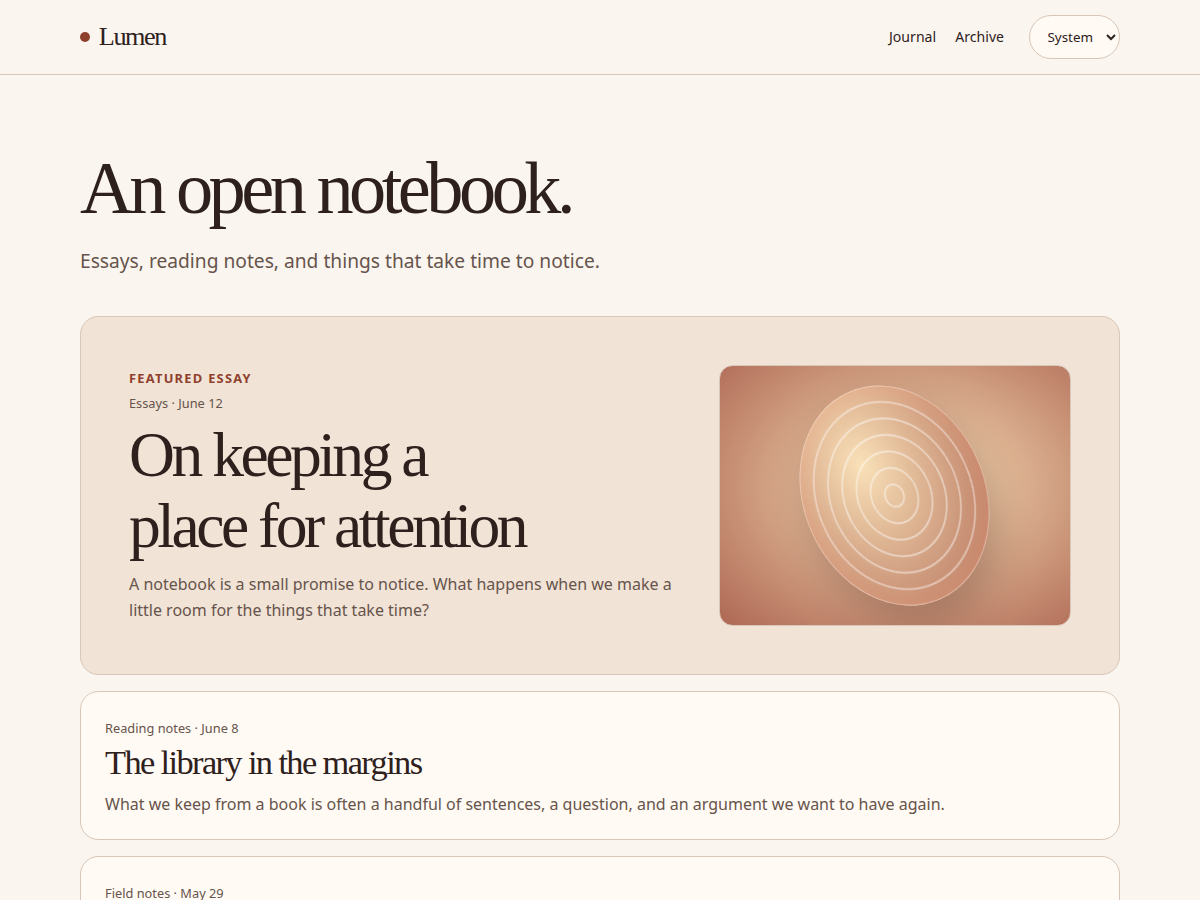
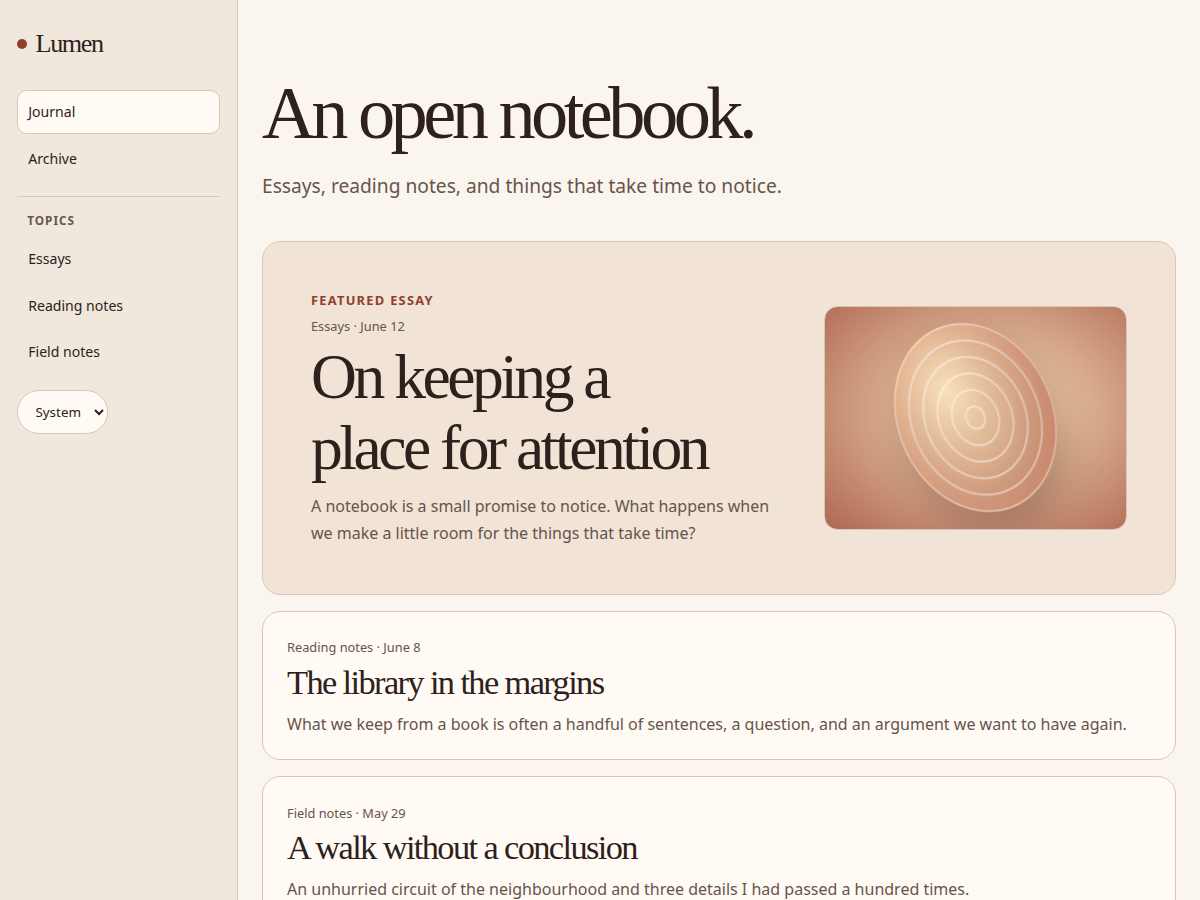
Show Lumen sidebar layout and 1.1.0 downloads

diff --git a/index.html b/index.html
@@ -1,1 +1,1 @@
-<!doctype html><html lang="en"><head><meta charset="utf-8"/><meta name="viewport" content="width=device-width,initial-scale=1"/><title>Gonk Themes — Free themes for crypto communities</title><meta name="description" content="Original free Blogger and WordPress themes for crypto communities. Browse live previews, download installable themes and explore the open source."/><link rel="canonical" href="https://gonkfun.github.io/"/><link rel="icon" type="image/svg+xml" href="assets/favicon.svg"/><style>*{box-sizing:border-box}body{margin:0;background:#101216;color:#f2f4f8;font:16px/1.7 system-ui,-apple-system,sans-serif}a{color:inherit;text-underline-offset:5px}a:focus-visible{outline:3px solid #8fbaff;outline-offset:5px}.wrap{max-width:1180px;width:calc(100% - 48px);margin:auto}header{border-bottom:1px solid #39414f}header .wrap{display:flex;justify-content:space-between;align-items:center;min-height:90px;gap:24px}header a{text-decoration:none;min-height:44px;display:inline-flex;align-items:center}.brand{font-size:23px;font-weight:700;letter-spacing:-.8px}.brand span{color:#8fbaff}nav{display:flex;gap:25px;font-size:14px}.hero{padding:80px 0 55px;max-width:850px}.eyebrow{font:11px/1.5 ui-monospace,monospace;letter-spacing:1.5px;color:#aab3c2;text-transform:uppercase}h1{font-size:clamp(42px,6vw,76px);font-weight:600;line-height:1.08;letter-spacing:-3px;margin:20px 0 26px}h1 span{color:#8fbaff}.hero p{font-size:18px;color:#aab3c2;max-width:620px}.grid{display:grid;grid-template-columns:minmax(0,1fr);gap:32px}.card{border:1px solid #39414f;background:#191c22;border-radius:18px;overflow:hidden;display:grid;grid-template-columns:1.1fr 1fr;min-width:0}.cover{display:block;background:#222731;overflow:hidden}.cover img{display:block;width:100%;height:100%;object-fit:cover;object-position:top}.card-body{padding:34px}h2{font-size:35px;font-weight:600;letter-spacing:-1px;margin:14px 0 10px}.card p{font-size:15px;color:#aab3c2}.tags{display:flex;flex-wrap:wrap;gap:10px;margin:22px 0}.tags span{padding:6px 12px;border:1px solid #39414f;border-radius:999px;font-size:12px}.actions{display:flex;gap:10px;flex-wrap:wrap}.actions a{min-height:44px;display:inline-flex;align-items:center;padding:10px 16px;text-decoration:none;font-size:13px;border:1px solid #46546b;border-radius:999px}.actions .primary{background:#8fbaff;color:#101b30;border-color:#8fbaff;font-weight:650}.source{display:inline-flex;align-items:center;min-height:44px;font-size:13px;margin-top:16px;color:#bfd4f9}.note{padding:26px 0;color:#aab3c2;font-size:14px;max-width:900px}footer{border-top:1px solid #39414f;margin-top:50px;padding:28px 0 40px;font-size:13px;color:#aab3c2}footer .wrap{display:flex;justify-content:space-between;gap:25px;flex-wrap:wrap}footer a{color:#8fbaff}.skip{position:absolute;top:-100px;left:20px}.skip:focus{top:15px;background:#8fbaff;color:#101216;padding:12px;z-index:5}@media(max-width:750px){.wrap{width:calc(100% - 32px)}header .wrap{min-height:80px}.brand{font-size:20px}nav{gap:16px;font-size:12px}.hero{padding:46px 0 32px}h1{letter-spacing:-1.8px}.card{grid-template-columns:1fr}.cover{aspect-ratio:16/10}.card-body{padding:25px}.hero p{font-size:16px}}</style></head><body><a class="skip" href="#themes">Skip to themes</a><header><div class="wrap"><a class="brand" href="./">gonk<span> / themes</span></a><nav aria-label="Main"><a href="https://github.com/gonkfun/themes">GitHub ↗</a><a href="https://gonk.fun/">gonk.fun ↗</a></nav></div></header><main class="wrap"><section class="hero"><div class="eyebrow">Original design. Open source.</div><h1>A home for your<br/><span>corner of crypto.</span></h1><p>Free themes for the people writing, building and bringing communities together. Start with one you like. Make it your own.</p></section><section class="grid" id="themes" aria-label="Available themes"><article class="card"><a class="cover" href="/themes/epoch/" aria-label="Preview Epoch"><img src="assets/epoch.png" width="1200" height="900" alt="Epoch theme homepage"/></a><div class="card-body"><div class="eyebrow">THEME 01 / Solana editorial</div><h2>Epoch</h2><p>A charcoal-and-blue journal for Solana communities, with native publishing, responsive reading layouts and original artwork.</p><div class="tags"><span>Blogger</span><span>WordPress</span></div><div class="actions"><a class="primary" href="/themes/epoch/">Live preview ↗</a><a href="https://github.com/gonkfun/themes/releases/download/epoch-v1.0.0/epoch-blogger-1.0.0.zip">Blogger ZIP ↓</a><a href="https://github.com/gonkfun/themes/releases/download/epoch-v1.0.0/epoch-wordpress-1.0.0.zip">WordPress ZIP ↓</a></div><a class="source" href="https://github.com/gonkfun/themes/tree/main/themes/epoch">Source &amp; installation guides ↗</a></div></article><article class="card"><a class="cover" href="/themes/fieldnote/" aria-label="Preview Fieldnote"><img src="assets/fieldnote.png" width="1200" height="900" alt="Fieldnote theme homepage"/></a><div class="card-body"><div class="eyebrow">THEME 02 / Nature journal</div><h2>Fieldnote</h2><p>A paper-and-ink field journal for naturalists, gardeners and walkers: specimen-card entries, margin notes, a season strip and hand-drawn line artwork. Designed by Claude.</p><div class="tags"><span>Blogger</span><span>WordPress</span></div><div class="actions"><a class="primary" href="/themes/fieldnote/">Live preview ↗</a><a href="https://github.com/gonkfun/themes/releases/download/fieldnote-v1.0.0/fieldnote-blogger-1.0.0.zip">Blogger ZIP ↓</a><a href="https://github.com/gonkfun/themes/releases/download/fieldnote-v1.0.0/fieldnote-wordpress-1.0.0.zip">WordPress ZIP ↓</a></div><a class="source" href="https://github.com/gonkfun/themes/tree/main/themes/fieldnote">Source &amp; installation guides ↗</a></div></article><article class="card"><a class="cover" href="/themes/relaygrid/" aria-label="Preview Relaygrid"><img src="assets/relaygrid.png" width="1200" height="900" alt="Relaygrid theme homepage"/></a><div class="card-body"><div class="eyebrow">THEME 03 / Developer project</div><h2>Relaygrid</h2><p>A lightweight project homepage with technical updates, a roadmap and a compact documentation layout.</p><div class="tags"><span>Blogger</span><span>WordPress</span></div><div class="actions"><a class="primary" href="/themes/relaygrid/">Live preview ↗</a><a href="https://github.com/gonkfun/themes/releases/download/relaygrid-v1.0.0/relaygrid-blogger-1.0.0.zip">Blogger ZIP ↓</a><a href="https://github.com/gonkfun/themes/releases/download/relaygrid-v1.0.0/relaygrid-wordpress-1.0.0.zip">WordPress ZIP ↓</a></div><a class="source" href="https://github.com/gonkfun/themes/tree/main/themes/relaygrid">Source &amp; installation guides ↗</a></div></article><article class="card"><a class="cover" href="/themes/cabinetnoir/" aria-label="Preview Cabinet Noir"><img src="assets/cabinetnoir.png" width="1200" height="900" alt="Cabinet Noir theme homepage"/></a><div class="card-body"><div class="eyebrow">THEME 04 / Collectible catalogue</div><h2>Cabinet Noir</h2><p>A museum-style gallery with an oversized exhibit lead, a specimen grid and dedicated collection notes.</p><div class="tags"><span>Blogger</span><span>WordPress</span></div><div class="actions"><a class="primary" href="/themes/cabinetnoir/">Live preview ↗</a><a href="https://github.com/gonkfun/themes/releases/download/cabinetnoir-v1.0.0/cabinetnoir-blogger-1.0.0.zip">Blogger ZIP ↓</a><a href="https://github.com/gonkfun/themes/releases/download/cabinetnoir-v1.0.0/cabinetnoir-wordpress-1.0.0.zip">WordPress ZIP ↓</a></div><a class="source" href="https://github.com/gonkfun/themes/tree/main/themes/cabinetnoir">Source &amp; installation guides ↗</a></div></article><article class="card"><a class="cover" href="/themes/signalatelier/" aria-label="Preview Signal Atelier"><img src="assets/signalatelier.png" width="1200" height="900" alt="Signal Atelier theme homepage"/></a><div class="card-body"><div class="eyebrow">THEME 05 / Creative studio</div><h2>Signal Atelier</h2><p>A bold studio portfolio with an oversized opening, a structured service list and case-study templates.</p><div class="tags"><span>Blogger</span><span>WordPress</span></div><div class="actions"><a class="primary" href="/themes/signalatelier/">Live preview ↗</a><a href="https://github.com/gonkfun/themes/releases/download/signalatelier-v1.0.0/signalatelier-blogger-1.0.0.zip">Blogger ZIP ↓</a><a href="https://github.com/gonkfun/themes/releases/download/signalatelier-v1.0.0/signalatelier-wordpress-1.0.0.zip">WordPress ZIP ↓</a></div><a class="source" href="https://github.com/gonkfun/themes/tree/main/themes/signalatelier">Source &amp; installation guides ↗</a></div></article><article class="card"><a class="cover" href="/themes/longweekend/" aria-label="Preview Long Weekend"><img src="assets/longweekend.png" width="1200" height="900" alt="Long Weekend theme homepage"/></a><div class="card-body"><div class="eyebrow">THEME 06 / Community events</div><h2>Long Weekend</h2><p>A lively event theme with a poster-style entrance, an editable agenda and room for speaker or venue updates.</p><div class="tags"><span>Blogger</span><span>WordPress</span></div><div class="actions"><a class="primary" href="/themes/longweekend/">Live preview ↗</a><a href="https://github.com/gonkfun/themes/releases/download/longweekend-v1.0.0/longweekend-blogger-1.0.0.zip">Blogger ZIP ↓</a><a href="https://github.com/gonkfun/themes/releases/download/longweekend-v1.0.0/longweekend-wordpress-1.0.0.zip">WordPress ZIP ↓</a></div><a class="source" href="https://github.com/gonkfun/themes/tree/main/themes/longweekend">Source &amp; installation guides ↗</a></div></article><article class="card"><a class="cover" href="/themes/lumen/" aria-label="Preview Lumen"><img src="assets/lumen.png" width="1200" height="900" alt="Lumen theme homepage"/></a><div class="card-body"><div class="eyebrow">THEME 07 / Literary journal</div><h2>Lumen</h2><p>Warm ivory and terracotta, a featured essay, a quiet reading column and a system-aware light or dark appearance.</p><div class="tags"><span>Blogger</span><span>WordPress</span></div><div class="actions"><a class="primary" href="/themes/lumen/">Live preview ↗</a><a href="https://github.com/gonkfun/themes/releases/download/lumen-v1.0.0/lumen-blogger-1.0.0.zip">Blogger ZIP ↓</a><a href="https://github.com/gonkfun/themes/releases/download/lumen-v1.0.0/lumen-wordpress-1.0.0.zip">WordPress ZIP ↓</a></div><a class="source" href="https://github.com/gonkfun/themes/tree/main/themes/lumen">Source &amp; installation guides ↗</a></div></article></section><p class="note">Every theme includes an installable WordPress ZIP, source and setup guides. Cards marked Blogger also include Blogger XML. Previews use fictional sample content. WordPress needs hosting that supports custom themes; GitHub Pages hosts the static previews.</p></main><footer><div class="wrap"><span>GPL-2.0-or-later · Free to use and modify.</span><span>Powered by <a href="https://gonk.fun/" rel="nofollow">gonk.fun</a></span></div></footer></body></html>
+<!doctype html><html lang="en"><head><meta charset="utf-8"/><meta name="viewport" content="width=device-width,initial-scale=1"/><title>Gonk Themes — Free themes for crypto communities</title><meta name="description" content="Original free Blogger and WordPress themes for crypto communities. Browse live previews, download installable themes and explore the open source."/><link rel="canonical" href="https://gonkfun.github.io/"/><link rel="icon" type="image/svg+xml" href="assets/favicon.svg"/><style>*{box-sizing:border-box}body{margin:0;background:#101216;color:#f2f4f8;font:16px/1.7 system-ui,-apple-system,sans-serif}a{color:inherit;text-underline-offset:5px}a:focus-visible{outline:3px solid #8fbaff;outline-offset:5px}.wrap{max-width:1180px;width:calc(100% - 48px);margin:auto}header{border-bottom:1px solid #39414f}header .wrap{display:flex;justify-content:space-between;align-items:center;min-height:90px;gap:24px}header a{text-decoration:none;min-height:44px;display:inline-flex;align-items:center}.brand{font-size:23px;font-weight:700;letter-spacing:-.8px}.brand span{color:#8fbaff}nav{display:flex;gap:25px;font-size:14px}.hero{padding:80px 0 55px;max-width:850px}.eyebrow{font:11px/1.5 ui-monospace,monospace;letter-spacing:1.5px;color:#aab3c2;text-transform:uppercase}h1{font-size:clamp(42px,6vw,76px);font-weight:600;line-height:1.08;letter-spacing:-3px;margin:20px 0 26px}h1 span{color:#8fbaff}.hero p{font-size:18px;color:#aab3c2;max-width:620px}.grid{display:grid;grid-template-columns:minmax(0,1fr);gap:32px}.card{border:1px solid #39414f;background:#191c22;border-radius:18px;overflow:hidden;display:grid;grid-template-columns:1.1fr 1fr;min-width:0}.cover{display:block;background:#222731;overflow:hidden}.cover img{display:block;width:100%;height:100%;object-fit:cover;object-position:top}.card-body{padding:34px}h2{font-size:35px;font-weight:600;letter-spacing:-1px;margin:14px 0 10px}.card p{font-size:15px;color:#aab3c2}.tags{display:flex;flex-wrap:wrap;gap:10px;margin:22px 0}.tags span{padding:6px 12px;border:1px solid #39414f;border-radius:999px;font-size:12px}.actions{display:flex;gap:10px;flex-wrap:wrap}.actions a{min-height:44px;display:inline-flex;align-items:center;padding:10px 16px;text-decoration:none;font-size:13px;border:1px solid #46546b;border-radius:999px}.actions .primary{background:#8fbaff;color:#101b30;border-color:#8fbaff;font-weight:650}.source{display:inline-flex;align-items:center;min-height:44px;font-size:13px;margin-top:16px;color:#bfd4f9}.note{padding:26px 0;color:#aab3c2;font-size:14px;max-width:900px}footer{border-top:1px solid #39414f;margin-top:50px;padding:28px 0 40px;font-size:13px;color:#aab3c2}footer .wrap{display:flex;justify-content:space-between;gap:25px;flex-wrap:wrap}footer a{color:#8fbaff}.skip{position:absolute;top:-100px;left:20px}.skip:focus{top:15px;background:#8fbaff;color:#101216;padding:12px;z-index:5}@media(max-width:750px){.wrap{width:calc(100% - 32px)}header .wrap{min-height:80px}.brand{font-size:20px}nav{gap:16px;font-size:12px}.hero{padding:46px 0 32px}h1{letter-spacing:-1.8px}.card{grid-template-columns:1fr}.cover{aspect-ratio:16/10}.card-body{padding:25px}.hero p{font-size:16px}}</style></head><body><a class="skip" href="#themes">Skip to themes</a><header><div class="wrap"><a class="brand" href="./">gonk<span> / themes</span></a><nav aria-label="Main"><a href="https://github.com/gonkfun/themes">GitHub ↗</a><a href="https://gonk.fun/">gonk.fun ↗</a></nav></div></header><main class="wrap"><section class="hero"><div class="eyebrow">Original design. Open source.</div><h1>A home for your<br/><span>corner of crypto.</span></h1><p>Free themes for the people writing, building and bringing communities together. Start with one you like. Make it your own.</p></section><section class="grid" id="themes" aria-label="Available themes"><article class="card"><a class="cover" href="/themes/epoch/" aria-label="Preview Epoch"><img src="assets/epoch.png" width="1200" height="900" alt="Epoch theme homepage"/></a><div class="card-body"><div class="eyebrow">THEME 01 / Solana editorial</div><h2>Epoch</h2><p>A charcoal-and-blue journal for Solana communities, with native publishing, responsive reading layouts and original artwork.</p><div class="tags"><span>Blogger</span><span>WordPress</span></div><div class="actions"><a class="primary" href="/themes/epoch/">Live preview ↗</a><a href="https://github.com/gonkfun/themes/releases/download/epoch-v1.0.0/epoch-blogger-1.0.0.zip">Blogger ZIP ↓</a><a href="https://github.com/gonkfun/themes/releases/download/epoch-v1.0.0/epoch-wordpress-1.0.0.zip">WordPress ZIP ↓</a></div><a class="source" href="https://github.com/gonkfun/themes/tree/main/themes/epoch">Source &amp; installation guides ↗</a></div></article><article class="card"><a class="cover" href="/themes/fieldnote/" aria-label="Preview Fieldnote"><img src="assets/fieldnote.png" width="1200" height="900" alt="Fieldnote theme homepage"/></a><div class="card-body"><div class="eyebrow">THEME 02 / Nature journal</div><h2>Fieldnote</h2><p>A paper-and-ink field journal for naturalists, gardeners and walkers: specimen-card entries, margin notes, a season strip and hand-drawn line artwork. Designed by Claude.</p><div class="tags"><span>Blogger</span><span>WordPress</span></div><div class="actions"><a class="primary" href="/themes/fieldnote/">Live preview ↗</a><a href="https://github.com/gonkfun/themes/releases/download/fieldnote-v1.0.0/fieldnote-blogger-1.0.0.zip">Blogger ZIP ↓</a><a href="https://github.com/gonkfun/themes/releases/download/fieldnote-v1.0.0/fieldnote-wordpress-1.0.0.zip">WordPress ZIP ↓</a></div><a class="source" href="https://github.com/gonkfun/themes/tree/main/themes/fieldnote">Source &amp; installation guides ↗</a></div></article><article class="card"><a class="cover" href="/themes/relaygrid/" aria-label="Preview Relaygrid"><img src="assets/relaygrid.png" width="1200" height="900" alt="Relaygrid theme homepage"/></a><div class="card-body"><div class="eyebrow">THEME 03 / Developer project</div><h2>Relaygrid</h2><p>A lightweight project homepage with technical updates, a roadmap and a compact documentation layout.</p><div class="tags"><span>Blogger</span><span>WordPress</span></div><div class="actions"><a class="primary" href="/themes/relaygrid/">Live preview ↗</a><a href="https://github.com/gonkfun/themes/releases/download/relaygrid-v1.0.0/relaygrid-blogger-1.0.0.zip">Blogger ZIP ↓</a><a href="https://github.com/gonkfun/themes/releases/download/relaygrid-v1.0.0/relaygrid-wordpress-1.0.0.zip">WordPress ZIP ↓</a></div><a class="source" href="https://github.com/gonkfun/themes/tree/main/themes/relaygrid">Source &amp; installation guides ↗</a></div></article><article class="card"><a class="cover" href="/themes/cabinetnoir/" aria-label="Preview Cabinet Noir"><img src="assets/cabinetnoir.png" width="1200" height="900" alt="Cabinet Noir theme homepage"/></a><div class="card-body"><div class="eyebrow">THEME 04 / Collectible catalogue</div><h2>Cabinet Noir</h2><p>A museum-style gallery with an oversized exhibit lead, a specimen grid and dedicated collection notes.</p><div class="tags"><span>Blogger</span><span>WordPress</span></div><div class="actions"><a class="primary" href="/themes/cabinetnoir/">Live preview ↗</a><a href="https://github.com/gonkfun/themes/releases/download/cabinetnoir-v1.0.0/cabinetnoir-blogger-1.0.0.zip">Blogger ZIP ↓</a><a href="https://github.com/gonkfun/themes/releases/download/cabinetnoir-v1.0.0/cabinetnoir-wordpress-1.0.0.zip">WordPress ZIP ↓</a></div><a class="source" href="https://github.com/gonkfun/themes/tree/main/themes/cabinetnoir">Source &amp; installation guides ↗</a></div></article><article class="card"><a class="cover" href="/themes/signalatelier/" aria-label="Preview Signal Atelier"><img src="assets/signalatelier.png" width="1200" height="900" alt="Signal Atelier theme homepage"/></a><div class="card-body"><div class="eyebrow">THEME 05 / Creative studio</div><h2>Signal Atelier</h2><p>A bold studio portfolio with an oversized opening, a structured service list and case-study templates.</p><div class="tags"><span>Blogger</span><span>WordPress</span></div><div class="actions"><a class="primary" href="/themes/signalatelier/">Live preview ↗</a><a href="https://github.com/gonkfun/themes/releases/download/signalatelier-v1.0.0/signalatelier-blogger-1.0.0.zip">Blogger ZIP ↓</a><a href="https://github.com/gonkfun/themes/releases/download/signalatelier-v1.0.0/signalatelier-wordpress-1.0.0.zip">WordPress ZIP ↓</a></div><a class="source" href="https://github.com/gonkfun/themes/tree/main/themes/signalatelier">Source &amp; installation guides ↗</a></div></article><article class="card"><a class="cover" href="/themes/longweekend/" aria-label="Preview Long Weekend"><img src="assets/longweekend.png" width="1200" height="900" alt="Long Weekend theme homepage"/></a><div class="card-body"><div class="eyebrow">THEME 06 / Community events</div><h2>Long Weekend</h2><p>A lively event theme with a poster-style entrance, an editable agenda and room for speaker or venue updates.</p><div class="tags"><span>Blogger</span><span>WordPress</span></div><div class="actions"><a class="primary" href="/themes/longweekend/">Live preview ↗</a><a href="https://github.com/gonkfun/themes/releases/download/longweekend-v1.0.0/longweekend-blogger-1.0.0.zip">Blogger ZIP ↓</a><a href="https://github.com/gonkfun/themes/releases/download/longweekend-v1.0.0/longweekend-wordpress-1.0.0.zip">WordPress ZIP ↓</a></div><a class="source" href="https://github.com/gonkfun/themes/tree/main/themes/longweekend">Source &amp; installation guides ↗</a></div></article><article class="card"><a class="cover" href="/themes/lumen/" aria-label="Preview Lumen"><img src="assets/lumen.png" width="1200" height="900" alt="Lumen theme homepage"/></a><div class="card-body"><div class="eyebrow">THEME 07 / Literary journal</div><h2>Lumen</h2><p>A literary journal with a left navigation sidebar, a focused reading pane and a system-aware light or dark appearance.</p><div class="tags"><span>Blogger</span><span>WordPress</span></div><div class="actions"><a class="primary" href="/themes/lumen/">Live preview ↗</a><a href="https://github.com/gonkfun/themes/releases/download/lumen-v1.1.0/lumen-blogger-1.1.0.zip">Blogger ZIP ↓</a><a href="https://github.com/gonkfun/themes/releases/download/lumen-v1.1.0/lumen-wordpress-1.1.0.zip">WordPress ZIP ↓</a></div><a class="source" href="https://github.com/gonkfun/themes/tree/main/themes/lumen">Source &amp; installation guides ↗</a></div></article></section><p class="note">Every theme includes an installable WordPress ZIP, source and setup guides. Cards marked Blogger also include Blogger XML. Previews use fictional sample content. WordPress needs hosting that supports custom themes; GitHub Pages hosts the static previews.</p></main><footer><div class="wrap"><span>GPL-2.0-or-later · Free to use and modify.</span><span>Powered by <a href="https://gonk.fun/" rel="nofollow">gonk.fun</a></span></div></footer></body></html>
